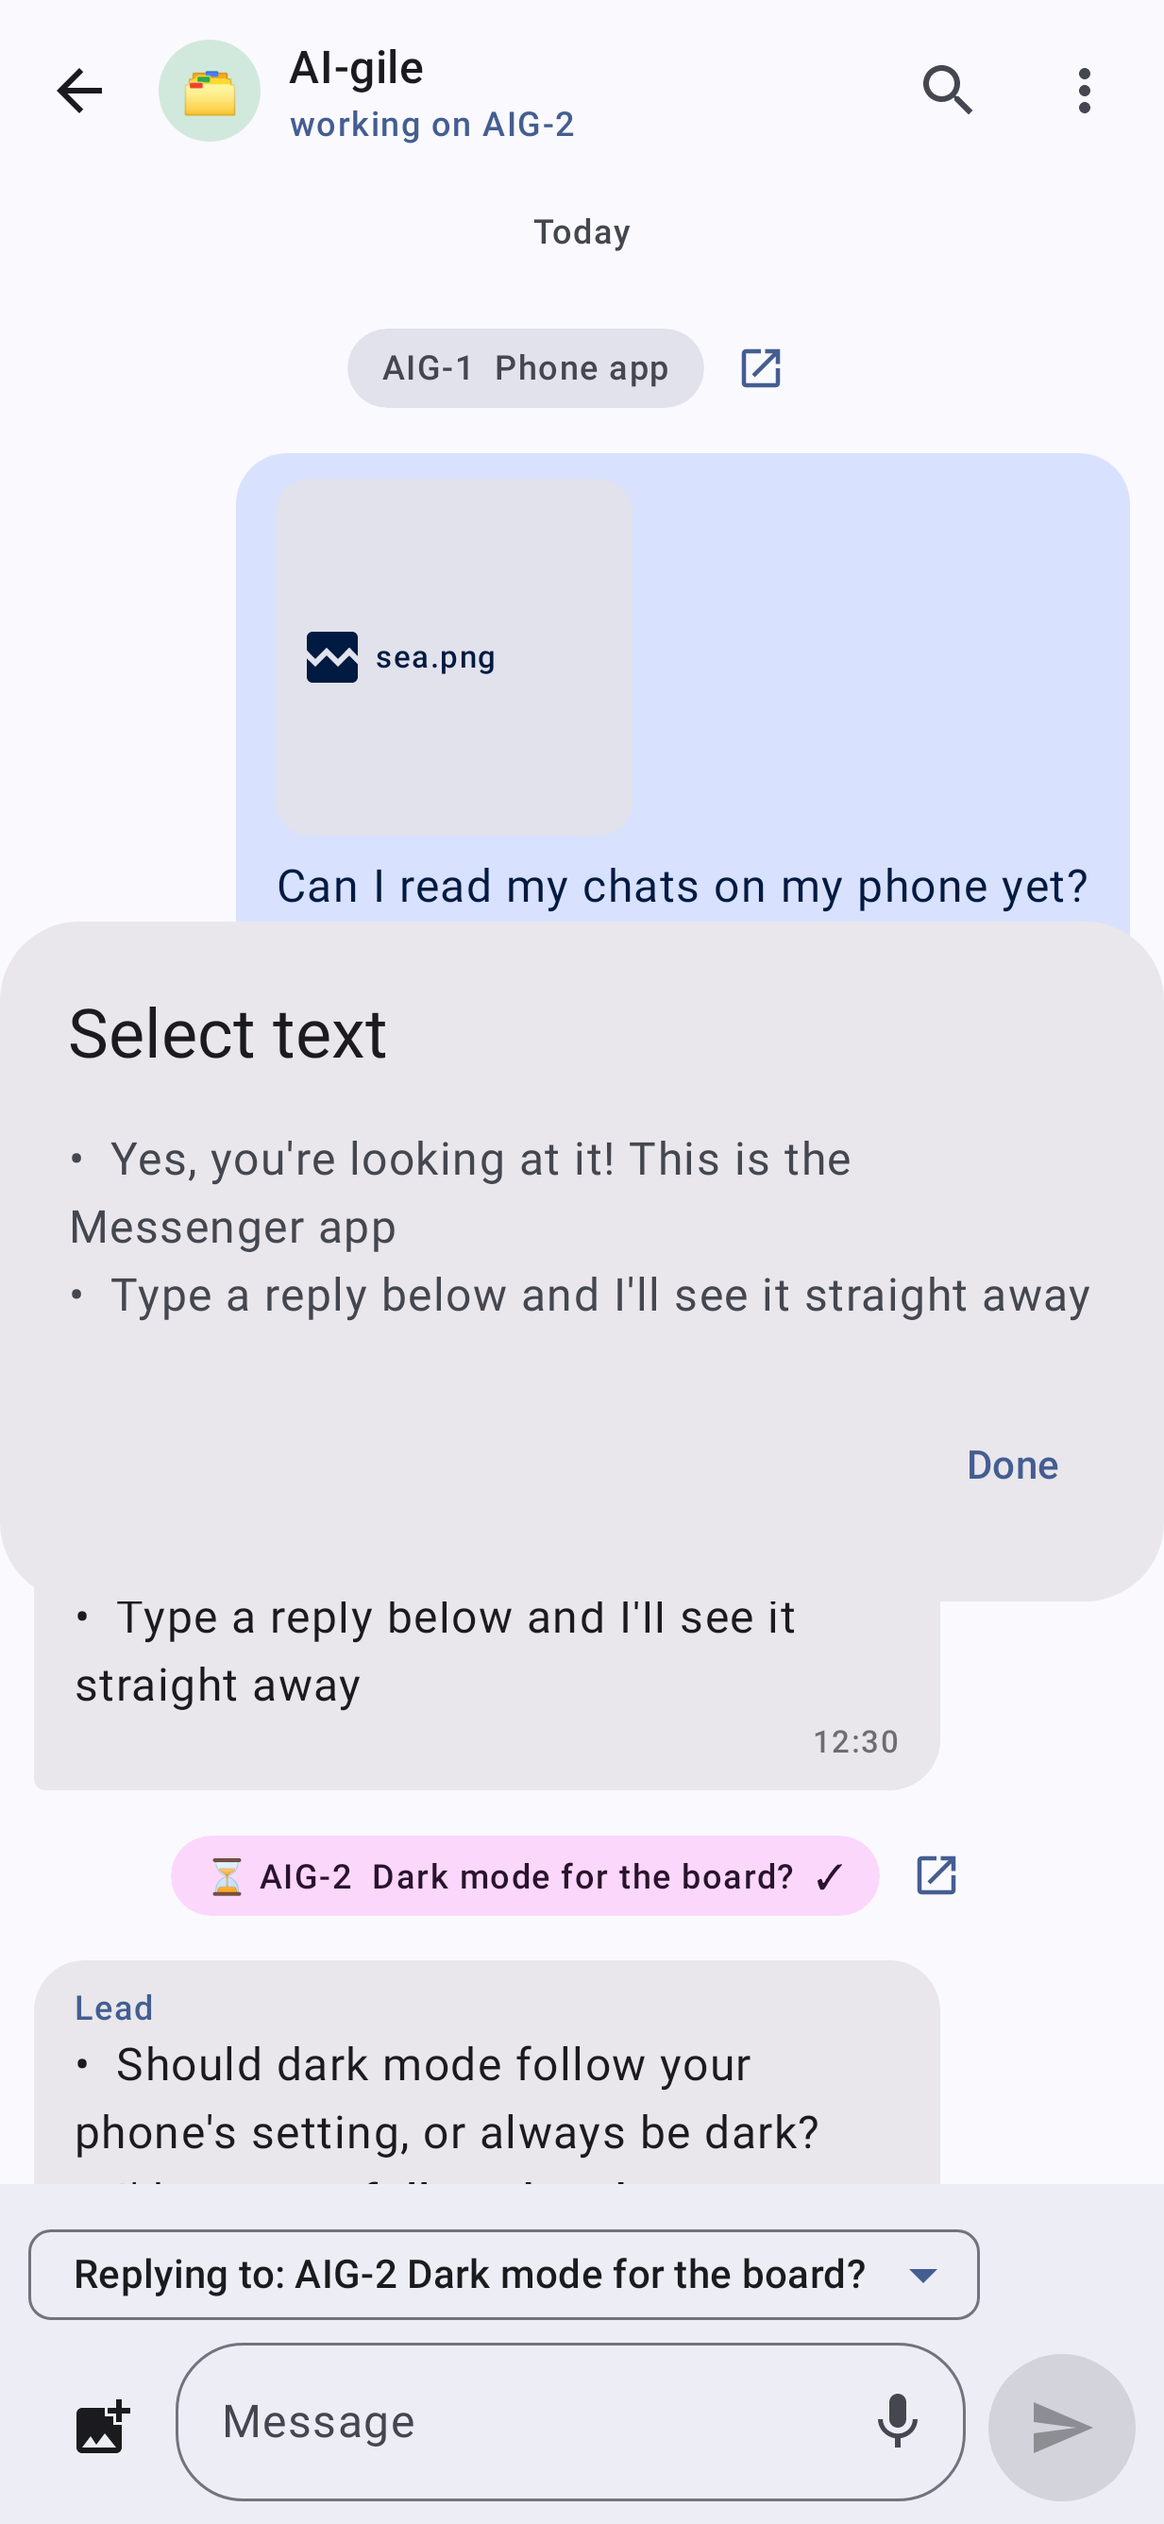
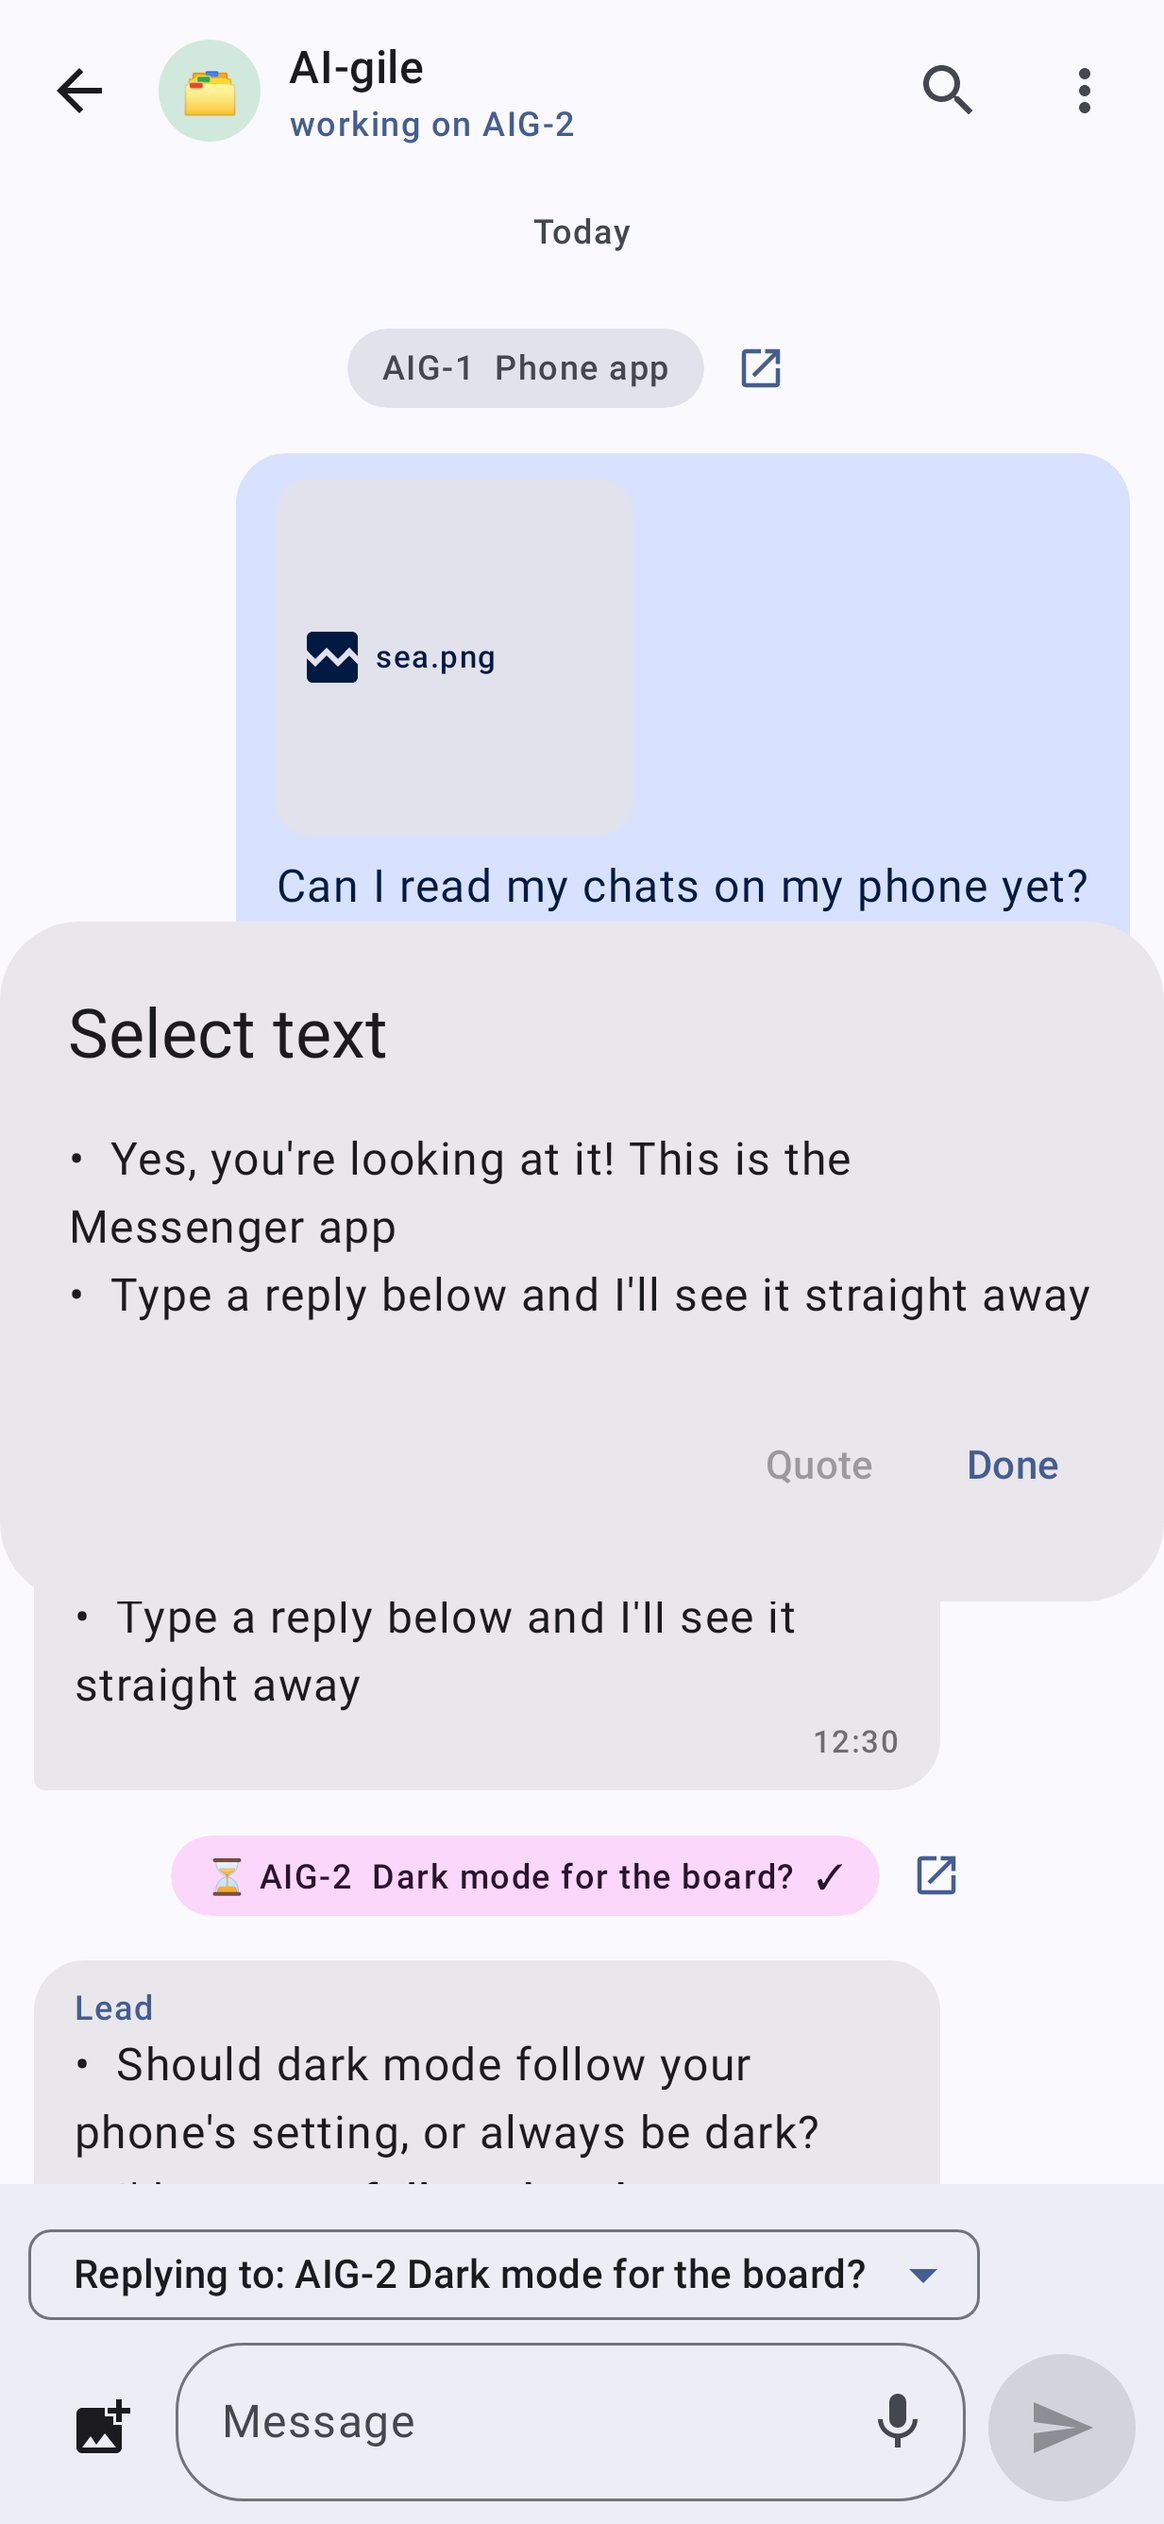
Quote part of a message (AII-409)

diff --git a/app/src/main/java/com/smizflark/aigile/messenger/ui/ChatBubble.kt b/app/src/main/java/com/smizflark/aigile/messenger/ui/ChatBubble.kt
@@ -1,7 +1,6 @@
 package com.smizflark.aigile.messenger.ui
 
 import androidx.compose.material3.AlertDialog
-import androidx.compose.foundation.text.selection.SelectionContainer
 import androidx.compose.foundation.verticalScroll
 import androidx.compose.foundation.rememberScrollState
 import androidx.activity.compose.rememberLauncherForActivityResult
@@ -75,6 +74,7 @@ import androidx.compose.material3.IconButton
 import androidx.compose.material3.MaterialTheme
 import androidx.compose.material3.OutlinedButton
 import androidx.compose.material3.OutlinedTextField
+import androidx.compose.ui.graphics.Color
 import androidx.compose.material3.SmallFloatingActionButton
 import androidx.compose.material3.Scaffold
 import androidx.compose.material3.Surface
@@ -140,7 +140,7 @@ import androidx.compose.ui.platform.LocalView
 
 @OptIn(ExperimentalLayoutApi::class, ExperimentalFoundationApi::class)
 @Composable
-internal fun MessageBubble(r: Row.Msg, ref: ChatRef, repo: Repo, mark: Int, onReply: (Bubble) -> Unit, onForward: (Bubble) -> Unit, cards: Set<String>, onCard: (String) -> Unit, onOption: (String) -> Unit, onRetry: (Pending) -> Unit, onDiscard: (Pending) -> Unit, onQuote: (String) -> Unit = {}, starred: Boolean = false, onStar: (() -> Unit)? = null, onSendNow: (Pending) -> Unit = {}, onEdit: (Pending) -> Unit = {}, onMoveLater: (Pending, java.time.Instant) -> Unit = { _, _ -> }, onRepeat: (Pending, String?) -> Unit = { _, _ -> }, remindAt: Long? = null, onReminded: () -> Unit = {}, onEditMsg: ((Bubble, String) -> Unit)? = null, onDeleteMsg: ((Bubble) -> Unit)? = null, onReact: ((Bubble, String) -> Unit)? = null, pinned: Boolean = false, onPin: (() -> Unit)? = null, selectMode: Boolean = false, picked: Boolean = false, onToggle: () -> Unit = {}, onPick: (() -> Unit)? = null, chatColour: String = "") {
+internal fun MessageBubble(r: Row.Msg, ref: ChatRef, repo: Repo, mark: Int, onReply: (Bubble) -> Unit, onForward: (Bubble) -> Unit, cards: Set<String>, onCard: (String) -> Unit, onOption: (String) -> Unit, onRetry: (Pending) -> Unit, onDiscard: (Pending) -> Unit, onQuote: (String) -> Unit = {}, onQuotePart: (Bubble, String) -> Unit = { _, _ -> }, starred: Boolean = false, onStar: (() -> Unit)? = null, onSendNow: (Pending) -> Unit = {}, onEdit: (Pending) -> Unit = {}, onMoveLater: (Pending, java.time.Instant) -> Unit = { _, _ -> }, onRepeat: (Pending, String?) -> Unit = { _, _ -> }, remindAt: Long? = null, onReminded: () -> Unit = {}, onEditMsg: ((Bubble, String) -> Unit)? = null, onDeleteMsg: ((Bubble) -> Unit)? = null, onReact: ((Bubble, String) -> Unit)? = null, pinned: Boolean = false, onPin: (() -> Unit)? = null, selectMode: Boolean = false, picked: Boolean = false, onToggle: () -> Unit = {}, onPick: (() -> Unit)? = null, chatColour: String = "") {
     val b = r.b
     val cs = MaterialTheme.colorScheme
     val tint = if (b.mine && !b.unverified) com.smizflark.aigile.messenger.data.ChatColour.tint(chatColour, cs.surface.luminance() < 0.5f) else null   // AII-375
@@ -319,7 +319,7 @@ internal fun MessageBubble(r: Row.Msg, ref: ChatRef, repo: Repo, mark: Int, onRe
             })
         }
         }
-        if (selecting) SelectText(shown.text) { selecting = false }
+        if (selecting) SelectText(shown.text, onQuote = { selecting = false; onQuotePart(b, it) }) { selecting = false }
         if ((showTime || Appearance.showTimes) && b.at.isNotBlank()) Text(fullTime(b.at), style = MaterialTheme.typography.labelSmall, color = cs.onSurfaceVariant,
             modifier = Modifier.padding(horizontal = 6.dp, vertical = 2.dp).testTag("fulltime"))
         if (remindAt != null) Text(com.smizflark.aigile.messenger.data.Remind.label(remindAt, com.smizflark.aigile.messenger.data.Now.millis()), style = MaterialTheme.typography.labelSmall, color = cs.onSurfaceVariant,
@@ -331,18 +331,25 @@ internal fun MessageBubble(r: Row.Msg, ref: ChatRef, repo: Repo, mark: Int, onRe
     }
 }
 
-/** The message on its own, so you can drag the handles over just the part you want and copy it (AII-127). */
+/** The message on its own, so you can drag the handles over just the part you want and copy it (AII-127) or quote it (AII-409). */
 @Composable
-private fun SelectText(text: String, onClose: () -> Unit) = AlertDialog(
-    onDismissRequest = onClose,
-    title = { Text(stringResource(R.string.select_text)) },
-    text = {
-        SelectionContainer(Modifier.heightIn(max = 400.dp).verticalScroll(rememberScrollState())) {
-            Text(text, style = MaterialTheme.typography.bodyLarge, modifier = Modifier.testTag("select-text"))
-        }
-    },
-    confirmButton = { TextButton(onClick = onClose) { Text(stringResource(R.string.done)) } },
-)
+internal fun SelectText(text: String, onQuote: (String) -> Unit, onClose: () -> Unit) {
+    val field = androidx.compose.foundation.text.input.rememberTextFieldState(text)
+    val sel = field.selection
+    val picked = if (sel.collapsed) "" else field.text.substring(sel.min, sel.max)
+    AlertDialog(
+        onDismissRequest = onClose,
+        title = { Text(stringResource(R.string.select_text)) },
+        text = {
+            androidx.compose.foundation.text.BasicTextField(field, readOnly = true,
+                textStyle = MaterialTheme.typography.bodyLarge.copy(color = MaterialTheme.colorScheme.onSurface),
+                cursorBrush = androidx.compose.ui.graphics.SolidColor(Color.Transparent),   // read-only: no cursor to blink (steady shots)
+                modifier = Modifier.fillMaxWidth().heightIn(max = 400.dp).testTag("select-text"))
+        },
+        confirmButton = { TextButton(onClick = onClose) { Text(stringResource(R.string.done)) } },
+        dismissButton = { TextButton(onClick = { onQuote(picked) }, enabled = picked.isNotBlank(), modifier = Modifier.testTag("select-quote")) { Text(stringResource(R.string.quote_selected)) } },
+    )
+}
 
 private val SWIPE_REPLY = 72.dp
 

diff --git a/app/src/main/java/com/smizflark/aigile/messenger/ui/ChatScreen.kt b/app/src/main/java/com/smizflark/aigile/messenger/ui/ChatScreen.kt
@@ -50,6 +50,7 @@ import com.smizflark.aigile.messenger.data.Outbox
 import com.smizflark.aigile.messenger.data.Kind
 import com.smizflark.aigile.messenger.data.Pace
 import com.smizflark.aigile.messenger.data.Pending
+import com.smizflark.aigile.messenger.data.Bubble
 import com.smizflark.aigile.messenger.data.Quote
 import com.smizflark.aigile.messenger.data.Repo
 import com.smizflark.aigile.messenger.data.PinnedMsgs
@@ -267,6 +268,13 @@ fun ChatScreen(repo: Repo, listed: ChatRef, onBack: () -> Unit, focus: String? =
         if (!Appearance.nextUnread) return@remember null   // AII-254
         nextUnreadChat(repo, ref.key)
     }
+    // Reply (whole line) or Quote (picked words, AII-409): same reply id, same card as answering it on the board.
+    fun startReply(q: Bubble, quote: String) {
+        quoting = quote
+        replyId = q.id.takeIf { ref.kind == Kind.FRIEND }   // AII-324
+        // A reply to a team message goes to its card, like answering it on the board.
+        if (ref.kind == Kind.LEAD && focus == null && q.card != null && targets.any { it.id == q.card }) { target = q.card; picked = true }
+    }
     // AII-99: tap a quote, the chat scrolls to the quoted message and outlines it for a moment.
     var flash by remember { mutableStateOf<String?>(null) }
     fun jumpToQuote(quoted: String, from: String) {
@@ -369,12 +377,8 @@ fun ChatScreen(repo: Repo, listed: ChatRef, onBack: () -> Unit, focus: String? =
                                 onOpen = if (focus == null && ref.kind == Kind.LEAD) { { onOpenCard(r.card) } } else null) {
                                 if (targets.any { it.id == r.card }) { target = r.card; picked = true }
                             }
-                            is Row.Msg -> MessageBubble(r, ref, repo, chatColour = colour, mark = if (r.id == flash) 2 else if (r.id !in hitIds) 0 else if (hitIds.getOrNull(current) == r.id) 2 else 1, onReply = { q ->
-                                quoting = Quote.of(if (q.mine) owner else q.author, q.text, q.pics.size)
-                                replyId = q.id.takeIf { ref.kind == Kind.FRIEND }   // AII-324
-                                // A reply to a team message goes to its card, like answering it on the board.
-                                if (ref.kind == Kind.LEAD && focus == null && q.card != null && targets.any { it.id == q.card }) { target = q.card; picked = true }
-                            }, onForward = { forwarding = it.text }, cards = if (ref.kind == Kind.LEAD) known - setOfNotNull(focus) else emptySet(), onCard = onOpenCard,
+                            is Row.Msg -> MessageBubble(r, ref, repo, chatColour = colour, mark = if (r.id == flash) 2 else if (r.id !in hitIds) 0 else if (hitIds.getOrNull(current) == r.id) 2 else 1, onReply = { q -> startReply(q, Quote.of(if (q.mine) owner else q.author, q.text, q.pics.size)) },
+                                onQuotePart = { q, words -> startReply(q, Quote.part(if (q.mine) owner else q.author, words)) }, onForward = { forwarding = it.text }, cards = if (ref.kind == Kind.LEAD) known - setOfNotNull(focus) else emptySet(), onCard = onOpenCard,
                                 onOption = { send(it, r.b.card) },
                                 onRetry = { p -> deliver(p) },
                                 onSendNow = { p -> pending = repo.pendingFor(ref.key); scope.launch { repo.sendNow(ref, p).onSuccess { load() }.onFailure { error = it.message }; pending = repo.pendingFor(ref.key) } },

diff --git a/app/src/test/java/com/smizflark/aigile/messenger/screens/ChatShotTest.kt b/app/src/test/java/com/smizflark/aigile/messenger/screens/ChatShotTest.kt
@@ -14,6 +14,10 @@ import androidx.compose.ui.test.performTouchInput
 import androidx.compose.ui.test.onNodeWithText
 import androidx.compose.ui.test.onNodeWithContentDescription
 import androidx.compose.ui.test.onNodeWithTag
+import androidx.compose.ui.test.assertIsEnabled
+import androidx.compose.ui.test.assertIsNotEnabled
+import androidx.compose.ui.test.assertTextContains
+import androidx.compose.ui.test.performTextInputSelection
 import androidx.compose.ui.test.onAllNodesWithTag
 import androidx.compose.ui.test.onAllNodesWithText
 import androidx.compose.ui.test.performClick
@@ -215,11 +219,29 @@ class ChatShotTest : ShotBase() {
         rule.setContent { MessengerTheme { ChatScreen(repo, lead(), onBack = {}) } }
         rule.onAllNodesWithTag("theirs").onLast().performTouchInput { longClick() }
         rule.onNodeWithTag("select").performClick()
+        rule.mainClock.autoAdvance = false; rule.mainClock.advanceTimeBy(500)   // the read-only field may be focused: its cursor blink never stops
         rule.onNodeWithTag("select-text").assertExists()
         rule.waitForIdle()
         com.github.takahirom.roborazzi.captureScreenRoboImage("../docs/shots/chat_select_text_light.png")   // the dialog is its own window
-        rule.onNodeWithText("Done").performClick()
+        rule.onNodeWithText("Done").performClick(); rule.mainClock.advanceTimeBy(500)
         rule.onAllNodesWithTag("select-text").assertCountEquals(0)
+    }
+    /** AII-409: pick some words in Select text, Quote: the reply quotes just those words. */
+    @OptIn(androidx.compose.ui.test.ExperimentalTestApi::class)
+    @Test fun quotePartOfAMessage() {
+        prime(lead()); RuntimeEnvironment.setQualifiers("+notnight")
+        rule.setContent { MessengerTheme { ChatScreen(repo, lead(), onBack = {}) } }
+        rule.onAllNodesWithTag("theirs").onLast().performTouchInput { longClick() }
+        rule.onNodeWithTag("select").performClick()
+        rule.mainClock.autoAdvance = false; rule.mainClock.advanceTimeBy(500)   // the read-only field may be focused: its cursor blink never stops
+        rule.onNodeWithTag("select-quote").assertIsNotEnabled()
+        rule.onNodeWithTag("select-text").performTextInputSelection(androidx.compose.ui.text.TextRange(3, 6)); rule.mainClock.advanceTimeBy(500)
+        rule.mainClock.advanceTimeByFrame(); rule.waitForIdle(); rule.mainClock.advanceTimeBy(500)
+        rule.onNodeWithTag("select-quote").assertIsEnabled().performClick(); rule.mainClock.advanceTimeBy(500)
+        rule.onAllNodesWithTag("select-text").assertCountEquals(0)
+        val inQuote = androidx.compose.ui.test.hasAnyAncestor(androidx.compose.ui.test.hasTestTag("quoting"))
+        rule.onNode(inQuote and androidx.compose.ui.test.hasText("Yes", substring = true)).assertExists()
+        rule.onAllNodes(inQuote and androidx.compose.ui.test.hasText("looking", substring = true)).assertCountEquals(0)
     }
     /** AII-126: with Enter key sends on, the keyboard's Send key sends the message; off, it doesn't. */
     @Test fun enterSends() {

diff --git a/app/src/main/java/com/smizflark/aigile/messenger/data/Quote.kt b/app/src/main/java/com/smizflark/aigile/messenger/data/Quote.kt
@@ -16,6 +16,14 @@ object Quote {
         return "> " + (if (author.isNotBlank()) "**$author:** " else "") + cut
     }
 
+    /** The line a reply quotes when only some words of a message were picked (AII-409); blank when nothing is picked. */
+    fun part(author: String, picked: String): String {
+        val line = picked.trim().lineSequence().map { it.trim() }.filter { it.isNotEmpty() }.joinToString(" ").replace("**", "")
+        if (line.isEmpty()) return ""
+        val cut = if (line.length > MAX) line.take(MAX).trimEnd() + "…" else line
+        return "> " + (if (author.isNotBlank()) "**$author:** " else "") + cut
+    }
+
     /** A whole message as markdown quote lines ("> " before each line), then a blank line (AII-236). */
     fun copy(plain: String) = plain.trim('\n').lines().joinToString("\n") { "> $it" } + "\n\n"
 
@@ -32,6 +40,9 @@ object Quote {
         val older = msgs.indices.filter { it > from && msgs[it] != null }
         val quotes = older.associateWith { i -> msgs[i]!!.let { of(if (it.mine) owner else it.author, it.text, it.pics.size).removePrefix("> ") } }
         return older.firstOrNull { quotes[it] == quoted } ?: older.firstOrNull { line(quotes[it]!!) == line(quoted) }
+            ?: line(quoted).removeSuffix("…").trim().takeIf { it.isNotEmpty() }?.let { part ->   // AII-409: a quote of some words
+                older.firstOrNull { split(msgs[it]!!.text).second.replace("**", "").replace(Regex("\\s+"), " ").contains(part) }
+            }
     }
 
     /** A message as quote (the leading "> " lines, without the marks) and the rest; quote is null when there is none. */

diff --git a/app/src/test/java/com/smizflark/aigile/messenger/QuoteTest.kt b/app/src/test/java/com/smizflark/aigile/messenger/QuoteTest.kt
@@ -55,4 +55,18 @@ class QuoteTest {
         assertEquals("> hi\n> there\n> \n> bye\n\n", Quote.copy("hi\nthere\n\nbye"))
         assertEquals("> one\n\n", Quote.copy("one\n"))
     }
+
+    // AII-409: quote only some words
+    @Test fun quotesJustThePickedWords() = assertEquals("> **Lead:** is fixed", Quote.part("Lead", " is fixed "))
+
+    @Test fun pickedWordsOnSeveralLinesJoinIntoOne() = assertEquals("> **Lead:** one two", Quote.part("Lead", "one\n\ntwo"))
+
+    @Test fun nothingPickedQuotesNothing() = assertEquals("", Quote.part("Lead", "  "))
+
+    @Test fun longPickedWordsAreCut() = assertEquals('…', Quote.part("Lead", "x".repeat(300)).last())
+
+    @Test fun partialQuoteStillJumpsToTheOriginal() {
+        val all = listOf(Bubble("r", "Rich", "> **Lead:** is fixed\n\nok", "", true), Bubble("b", "Lead", "Menu is fixed today", "", false))
+        assertEquals(1, Quote.source("**Lead:** is fixed", 0, all, "Rich"))
+    }
 }

diff --git a/docs/CODEMAP.md b/docs/CODEMAP.md
@@ -52,6 +52,7 @@ Kotlin under `app/src/main/java/com/smizflark/aigile/messenger/` (paths below ar
 - data/NextUnread.kt: which chat the Next unread button at the bottom of a chat goes to (AII-204); button in ui/ChatParts.kt.
 - data/QuickReply.kt: replying from the notification.
 - data/Quote.kt: quoting a message in a reply.
+- Quote part of a message (AII-409): the Select text dialog (ui/ChatBubble.kt SelectText, read-only BasicTextField on a TextFieldState) has a Quote button for the picked words; Quote.part makes the "> **Name:** words" line, ChatScreen.startReply does the rest like Reply (same reply id; Quote.source also finds the original from part of its text); test quotePartOfAMessage.
 - data/Replies.kt: your own quick replies, one per line in Settings (AII-180).
 - data/Recent.kt: recent searches, newest first, at most 5 (AII-155).
 - data/Repo.kt: the one place screens and background checks get chats from.
